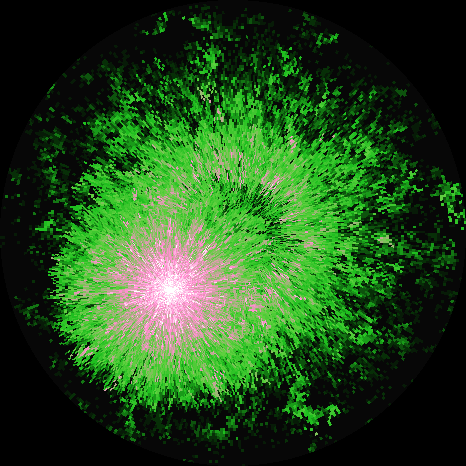
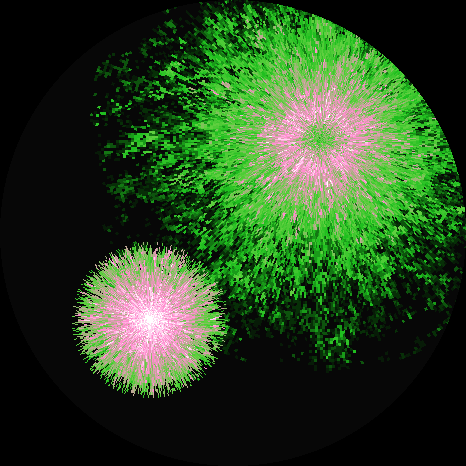
docs(flame1_doom_rad_mv): previews with fires far apart
Dying fire on one side, new fire on the other, as on the device.

diff --git a/scripts/make_flame_previews.py b/scripts/make_flame_previews.py
@@ -143,14 +143,14 @@ def polar_grid(scale):
     return w, h
 
 
-def radial_fire(rng, scale, steps, source_on=True):
+def radial_fire(rng, scale, steps, source_on=True, off_steps=30):
     w, h = polar_grid(scale)
     f = np.zeros((h, w), np.uint8)
     f[-1] = LEVELS - 1
     k, p = decay_params((LEVELS - 1) / (0.70 * h))
     fire_steps(f, rng, steps, [-1, 0, 0, 1], None, k, p)
     if not source_on:
-        fire_steps(f, rng, 30, [-1, 0, 0, 1], None, k, p, source_on=False)
+        fire_steps(f, rng, off_steps, [-1, 0, 0, 1], None, k, p, source_on=False)
     return f
 
 
@@ -177,12 +177,13 @@ def doom_radial(out_dir, rng, scale=3):
 
 
 def doom_radial_mv(out_dir, rng, scale=3):
-    """One preview per palette; the fire moved off the center, the previous one dying."""
-    spots = {"doom": (300, 170), "green": (170, 290), "purple": (290, 300), "turquoise": (180, 170)}
-    for name, (cx, cy) in spots.items():
-        old = radial_fire(rng, scale, STEPS, source_on=False)
-        new = radial_fire(rng, scale, 40)
-        img = render_polar([(old, RADIUS, RADIUS), (new, cx, cy)], scale, palette(name))
+    """One preview per palette: the dying fire on one side, the new fire (just started) on the other."""
+    spots = {"doom": ((150, 150), (330, 320)), "green": ((320, 140), (150, 320)),
+             "purple": ((140, 300), (320, 160)), "turquoise": ((310, 320), (150, 140))}
+    for name, (old_c, new_c) in spots.items():
+        old = radial_fire(rng, scale, STEPS, source_on=False, off_steps=12)
+        new = radial_fire(rng, scale, 25)
+        img = render_polar([(old, *old_c), (new, *new_c)], scale, palette(name))
         save(img, os.path.join(out_dir, f"flame1_doom_rad_mv_{name}.png"))
 
 

diff --git a/docs/flame.md b/docs/flame.md
@@ -47,7 +47,7 @@ The serial log prints `wind` every 2 s and `blown out` / `relit`.
 |---|---|
 | <img src="../assets/previews/flame1_doom.png" alt="flame1_doom" width="200"> | <img src="../assets/previews/flame1_doom_rad.png" alt="flame1_doom_rad" width="200"> |
 
-`flame1_doom_rad_mv` (fire moved off the center, the previous one dying at the center), one per palette:
+`flame1_doom_rad_mv` (the previous fire dying on one side, the new fire just started on the other side), one per palette:
 
 | Doom | green / pink | purple / light blue | turquoise / green |
 |---|---|---|---|
